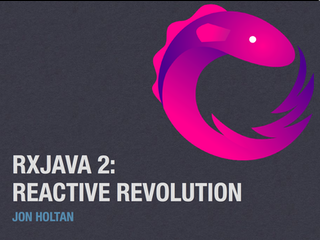
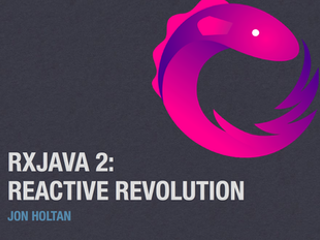
Updated images to remove white dots from corners

diff --git a/src/constants/SampleData.js b/src/constants/SampleData.js
@@ -23,7 +23,7 @@ const SampleData = {
       tags: ['android', 'tv'],
       icons: [icons.Android, icons.Tv],
       shortDescription:
-        "Overhauled iHeart Radio's OTT experiences for FireTV & AndroidTV. Both apps have a 4.0+ rating."
+        "Utilized modern Android practices and Kotlin to overhaul the OTT experience for iHeartRadio. This project was built as a main codebase which used Android's Product Flavors to seperate FireTV & AndroidTV requirements. The team was able to deploy to both platforms with ease. Both apps have a 4.0+ rating on their respective store."
     },
     {
       logo: wonderland,
@@ -31,55 +31,7 @@ const SampleData = {
       tags: ['voice', 'game'],
       icons: [icons.Voice, icons.Game],
       shortDescription:
-        "An interactive voice game built for the Echo Show using Amazon's Alexa Presentation Language (APL). Can you help the white rabbit break free of the Queen's evil magic? "
-    },
-    {
-      logo: troupeAi,
-      title: 'Troupe.ai',
-      tags: ['android'],
-      icons: [icons.Android],
-      shortDescription:
-        'Beta application for Troupe.ai which was used for conference attendees of TedX Toronto.'
-    },
-    {
-      logo: rxJavaTalk,
-      title: 'RxJava 2: Reactive Revolution',
-      tags: ['talk', 'android'],
-      icons: [icons.Android, icons.Talk],
-      shortDescription:
-        'Lunch & Learn presentation about the basics and effectiveness of the Rx paradim.'
-    },
-    {
-      logo: robot,
-      title: 'Robot Rampage',
-      tags: ['game'],
-      icons: [icons.Game],
-      shortDescription:
-        'Defeat as many robots as possible within the time limit. Rise the ranks fo the leaderboard! Made in Unity.'
-    },
-    {
-      logo: AAA,
-      title: 'AAA Android',
-      tags: ['android'],
-      icons: [icons.Android],
-      shortDescription:
-        'Trained AAA engineers in Android in order to revamp and deploy major updates to their mobile application.'
-    },
-    {
-      logo: mineShaft,
-      title: 'Mineshaft Explosion',
-      tags: ['3D'],
-      icons: [icons.Art],
-      shortDescription:
-        'Wanna know what happens when a mineshaft blowsup? Watch and see! Made in Cinema4D.'
-    },
-    {
-      logo: planetExpress,
-      title: 'Planet Express',
-      tags: ['3D'],
-      icons: [icons.Art],
-      shortDescription:
-        'Good news everyone! Planet Express HQ is now available in Low Poly Format. Made in Cinema4D.'
+        "Developed using AWS Lambda, Node.JS and Alexa Presentation Language (APL). This is an interactive voice game built for the Echo Show. The project was built in two weeks and was submitted to the DevPost Hackathon. Can you help the white rabbit break free of the Queen's evil magic? "
     },
     {
       logo: android,
@@ -87,7 +39,55 @@ const SampleData = {
       tags: ['android', 'talk'],
       icons: [icons.Android, icons.Talk],
       shortDescription:
-        'An introduction to testing Android using Mockito and common concepts.'
+        'I gave a talk to the Orange County Android Meetup about writing unit tests. This talk broke down common terminology and showcased how to write tests using Java and Mockito.'
+    },
+    {
+      logo: robot,
+      title: 'Robot Rampage',
+      tags: ['game'],
+      icons: [icons.Game],
+      shortDescription:
+        "Robot Rampage started as a Unity tutorial from Ray Wenderlich's Unity Games by Tutorials book. Upon completetion of the tutorial I went ahead and fixed some bugs, added additional features and included a leaderboard. This gave the game a more polished feel and allowed players to compete against each other. The game can be described as a time based shooter where players must defeat as many robots as possible within the time limit."
+    },
+    {
+      logo: troupeAi,
+      title: 'Troupe.ai',
+      tags: ['android'],
+      icons: [icons.Android],
+      shortDescription:
+        'Troüpe is an AI platform that is creating meaningful people to people connections. I was taked with building the beta application in two short weeks. I used Kotlin, Retrofit2, RxJava, and Twilio to rapidly develop the application. Attendees of TedX Toronto utilized this application to converse and network during the conference.'
+    },
+    {
+      logo: rxJavaTalk,
+      title: 'RxJava 2: Reactive Revolution',
+      tags: ['talk', 'android'],
+      icons: [icons.Android, icons.Talk],
+      shortDescription:
+        'Reactive programming is a  paradim in which the application reacts to events triggered in your application via users or other systems. RxJava allows developers to create fully fledged reactive applications. I gave a Lunch and Learn about the basics of Rx* and showcased how to use Rx in Kotlin applications.'
+    },
+    {
+      logo: AAA,
+      title: 'AAA Android',
+      tags: ['android'],
+      icons: [icons.Android],
+      shortDescription:
+        'During a digital transformation engagement with AAA I was responsible for teaching Android and showcasing modern development practices. I also taught the engineers how to use modern libraries/frameworks such as MVP, RxJava2, Retrofit2 & Dagger2. We used Pair Programming and TDD to revamp their application and deploy major updates.'
+    },
+    {
+      logo: mineShaft,
+      title: 'Mineshaft Explosion',
+      tags: ['3D'],
+      icons: [icons.Art],
+      shortDescription:
+        'I utilized a tutorial from the folks at Greyscale Gorilla to create my very first motion graphic. This amazing tutorial showcases how to build a mineshaft explosion using dynamics, animations, texturing and modeling techniques.'
+    },
+    {
+      logo: planetExpress,
+      title: 'Planet Express',
+      tags: ['3D'],
+      icons: [icons.Art],
+      shortDescription:
+        'After creating my first motion graphic, I wanted to explore low poly modeling. My favorite show is Futurama and I decided to recreate the Planet Express HQ. This is my first 3D model made using various reference images.'
     },
     {
       logo: shatteredCore,
@@ -95,7 +95,7 @@ const SampleData = {
       tags: ['3D'],
       icons: [icons.Art],
       shortDescription:
-        'A mystical core rises from the ground controlling the warped water in this oasis. Made in Cinema4D.'
+        'I crafted a simplistic motion graphic using the low poly style. I created an oasis environment that showcases a mystical core that rises above the ground thus controlling the shattered water.'
     },
     {
       logo: custom,
@@ -103,7 +103,7 @@ const SampleData = {
       tags: ['talk', 'android'],
       icons: [icons.Android, icons.Talk],
       shortDescription:
-        "Discover how to use Custom Views as an alternative to Android's Fragments."
+        'My first talk at the Orange County Android Meetup focused on using custom views as an alternative to Fragments. I wanted to show others that is possible to create a fully fledged system using custom views instead of the standard of Fragments. I constructed this system while builing a custom multimedia application.'
     },
     {
       logo: militarium,
@@ -111,15 +111,7 @@ const SampleData = {
       tags: ['game'],
       icons: [icons.Game],
       shortDescription:
-        'GO inspired RTS made with a custom c++ engine and player achievement system.'
-    },
-    {
-      logo: mothersWrath,
-      title: "Mother's Wrath",
-      tags: ['game'],
-      icons: [icons.Game],
-      shortDescription:
-        'Play as Mother Earth who has risen to take back Earth from the clutches of humanity.'
+        'For my senior thesis, my team and I made history at UC Santa Cruz by being the first team to create a custom engine and a real time strategy game. We created Militarium which is heavily influnced by the ancient Chinese game Go. Militarium featured a player profile and achievement system. Militarium won the Peer choice award at the UCSC Sammy Awards.'
     },
     {
       logo: santaCruzin,
@@ -127,7 +119,15 @@ const SampleData = {
       tags: ['game'],
       icons: [icons.Game],
       shortDescription:
-        'Descend the mountains of Santa Cruz in this 3D Kinect for Windows game. Made C#/XNA.'
+        'Santa Cruzin 3D Kinect was built in two weeks with a team of four using C#/XNA. Santa Cruzin won peer choice award at the UCSC Sammy Awards. We utilized text files to describe the height maps of each level. These files were loaded and used to generate 3D terrain. The game features both single and multiplayer experiences.'
+    },
+    {
+      logo: mothersWrath,
+      title: "Mother's Wrath",
+      tags: ['game'],
+      icons: [icons.Game],
+      shortDescription:
+        "Mother's Wrath is a single player top down action game where you play as Mother Earth and are trying to take back the Earth from the evil clutches of humanity. Mother's Wrath was built in C#/XNA using advanced AI systems to provide squad style behavior for enemies and an engaging multiphase final boss fight. We built this game in about five weeks, creating all art, effects and sounds from scratch. This game is playable on Windows with an Xbox Gamepad."
     },
     {
       logo: salvage,
@@ -135,7 +135,7 @@ const SampleData = {
       tags: ['game'],
       icons: [icons.Game],
       shortDescription:
-        'Collect fuel cells and use space junk to defeat enemies. Made in GameMaker.'
+        'Salavage is a game where you must collect fuel cells and use space junk to defeat enemies. It was made in GameMaker in about five weeks. It was the first game I ever made. I focused on level design, UI and QA. Salavage placed first in the internal class competiton.'
     }
   ]
 }

diff --git a/src/Project.js b/src/Project.js
@@ -46,7 +46,7 @@ class Project extends Component {
                 <i class={icon} />
               ))}
             </div>
-            <div className='project-desc'>{this.props.shortDescription}</div>
+            <div className='modal-desc'>{this.props.shortDescription}</div>
           </div>
         </ReactModal>
 

diff --git a/src/App.css b/src/App.css
@@ -71,6 +71,14 @@ body {
   padding-bottom: 2%;
 }
 
+.modal-desc {
+  display: flex;
+  flex-wrap: wrap;
+  flex-direction: row;
+  padding-left: 5%;
+  padding-right: 5%;
+}
+
 .closeIconColor {
   color: var(--close-modal-color);
 }
